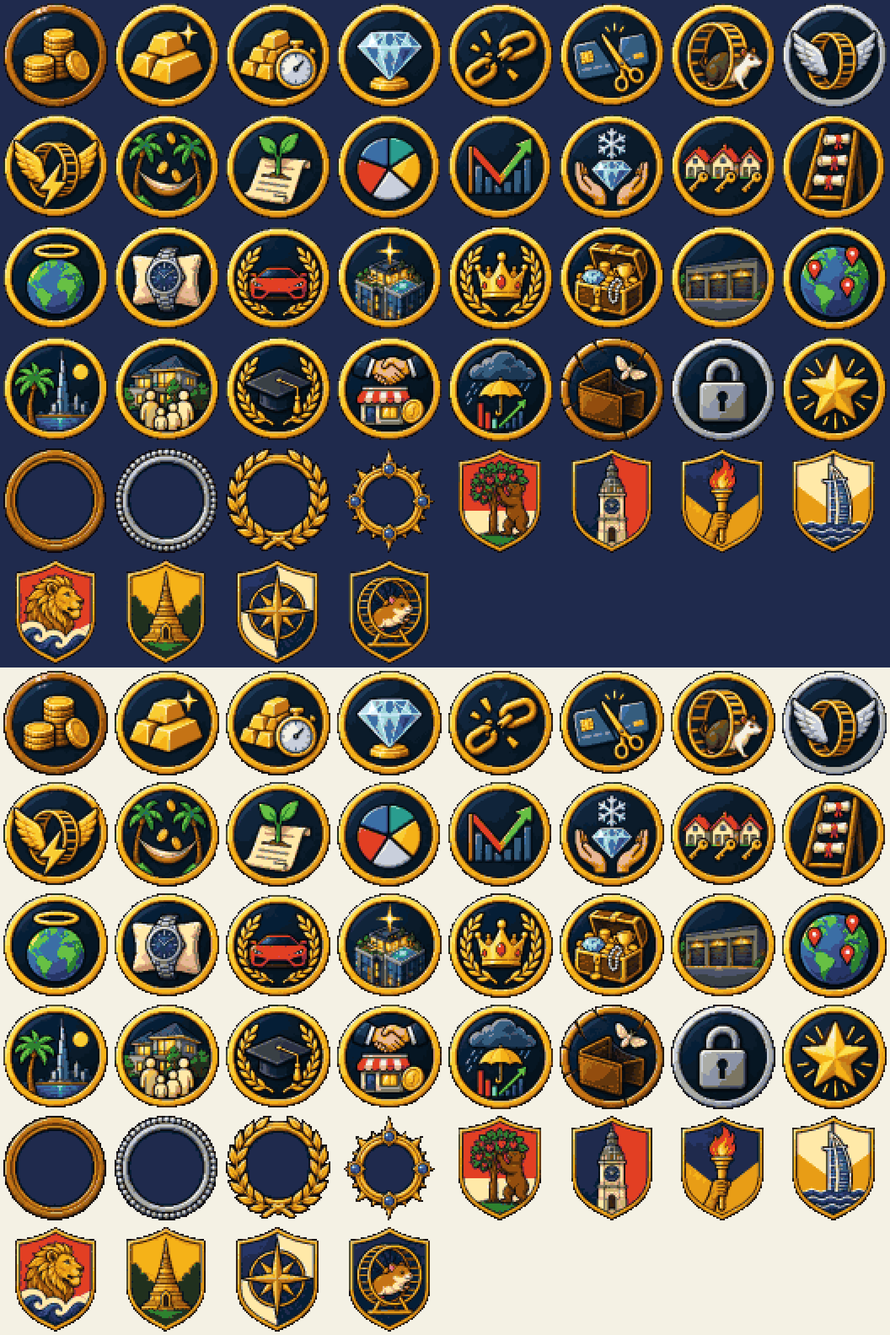
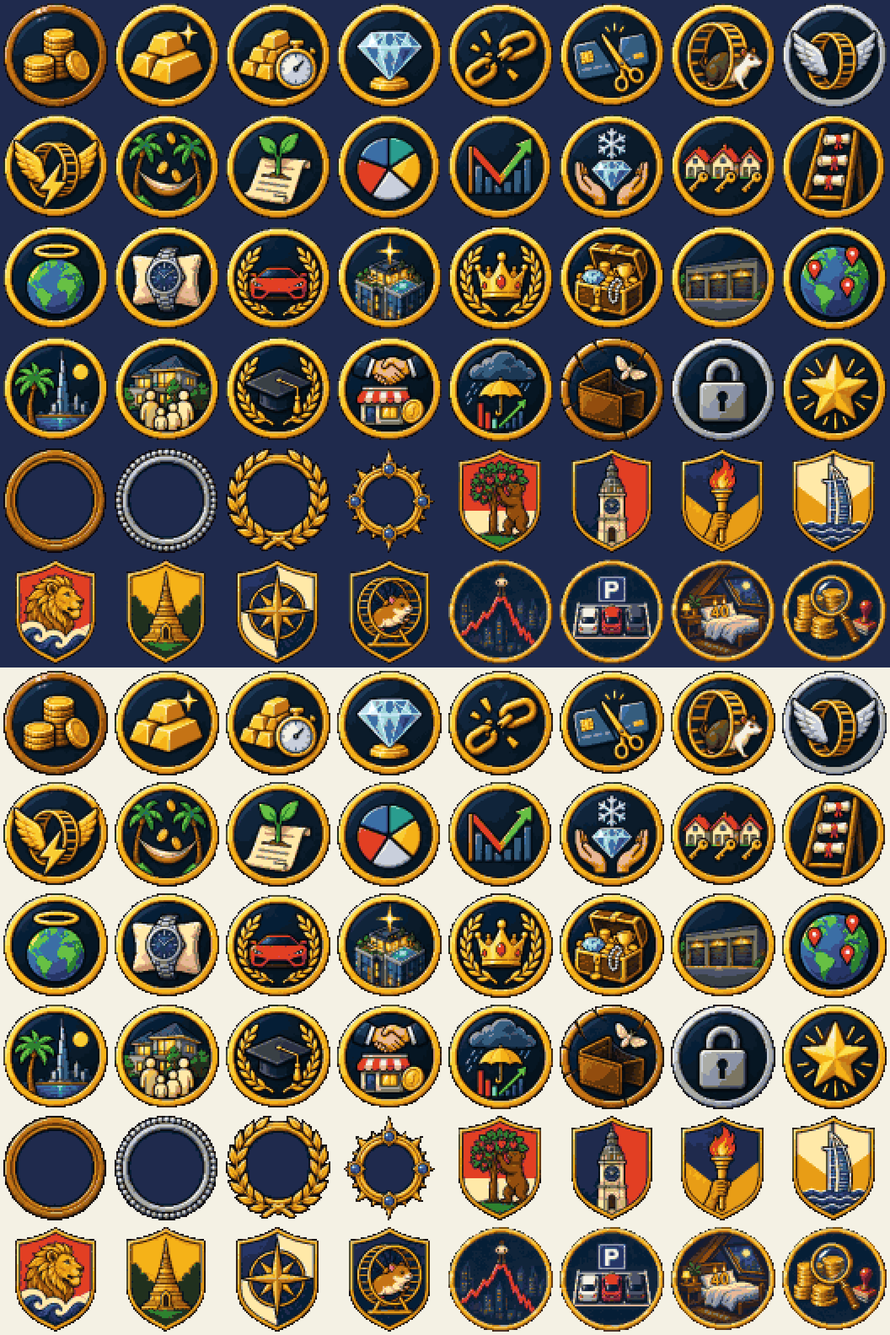
feat(art): the four new badges and the three ways to learn are drawn
badges-04 and items-05 are cut and wired, and the stand-ins they
replace are gone.

Changed region(s): [[0.4949, 0.9032, 1.0, 1.0], [0.4949, 0.4049, 1.0, 0.4983]]

diff --git a/packages/content/src/art.ts b/packages/content/src/art.ts
@@ -135,13 +135,7 @@ export const cardArt: Record<string, string> = {
 };
 
 /** Items are drawn by their own sprite. Cars live on their own sheet. */
-/** Things whose own picture is not drawn yet, and the nearest one drawn, shown until it is. Emptied as `items-05` is cut. */
-export const ITEM_STAND_INS: Record<string, string> = {
-  edu_certificate: 'edu_mba',
-  edu_coach: 'member_club',
-  edu_language_school: 'travel_interrail',
-};
-export const itemArt = (itemId: string): string => (itemId.startsWith('car_') ? `car.${itemId.slice(4)}` : `item.${ITEM_STAND_INS[itemId] ?? itemId}`);
+export const itemArt = (itemId: string): string => (itemId.startsWith('car_') ? `car.${itemId.slice(4)}` : `item.${itemId}`);
 /** The kinds of home each city draws its own way, once its sheet is cut. */
 export const CITY_HOME_KINDS = ['studio', 'flat', 'loft', 'townhouse', 'house', 'duplex', 'chalet', 'penthouse', 'estate', 'villa', 'mansion'] as const;
 /** The cities whose homes are drawn: until a city's sheet is cut, its homes are the plain ones. */
@@ -221,15 +215,8 @@ export const topicArt: Record<Headline['topic'], string> = {
   property: 'icon.property',
 };
 
-/** Badges whose own picture is not drawn yet, and the nearest one drawn, shown until it is. Emptied as `badges-04` is cut. */
-export const BADGE_STAND_INS: Record<string, string> = {
-  bought_the_top: 'crypto_winter',
-  more_cars_than_spaces: 'supercar',
-  room_at_40: 'three_rentals',
-  audited: 'bankrupt',
-};
 /** A badge, or `locked` for one not earned yet. */
-export const badgeArt = (badgeId: string): string => `badge.${BADGE_STAND_INS[badgeId] ?? badgeId}`;
+export const badgeArt = (badgeId: string): string => `badge.${badgeId}`;
 /** The rim a badge is set in, by its rarity: bronze, silver, a laurel of gold, and the gem. */
 export const RIM_ART = { common: 'rim.bronze', uncommon: 'rim.silver', rare: 'rim.gold', legendary: 'rim.gem' } as const;
 

diff --git a/tools/art/src/sheets.ts b/tools/art/src/sheets.ts
@@ -69,6 +69,11 @@ export const SHEETS: SheetSpec[] = [
     ],
   },
   {
+    // Three ways to learn that are bought: a certificate, a coach, a school abroad.
+    file: 'items/items-05', group: 'items', kind: 'objects', cols: 3, rows: 1, width: 64, height: 64,
+    ids: ['item.edu_certificate', 'item.edu_coach', 'item.edu_language_school'],
+  },
+  {
     file: 'cars/cars-01', group: 'cars', kind: 'objects', cols: 2, rows: 4, width: 96, height: 48,
     ids: [
       'car.seat_ibiza', 'car.toyota_corolla', 'car.vw_golf_gti', 'car.tesla_model_3',
@@ -234,6 +239,11 @@ export const SHEETS: SheetSpec[] = [
       'crest.madrid', 'crest.london', 'crest.new_york', 'crest.dubai',
       'crest.singapore', 'crest.bangkok', 'crest.compass', 'crest.wheel',
     ],
+  },
+  {
+    // Four badges added since: the top bought, more cars than spaces, a room at forty, an inspection.
+    file: 'badges/badges-04', group: 'badges', kind: 'objects', cols: 2, rows: 2, width: 64, height: 64,
+    ids: ['badge.bought_the_top', 'badge.more_cars_than_spaces', 'badge.room_at_40', 'badge.audited'],
   },
   ...[
     ['office_desk', 'handshake', 'packed_box', 'airport', 'library', 'graduation'],

diff --git a/art/prompts/v3-prompt-pack.md b/art/prompts/v3-prompt-pack.md
@@ -220,7 +220,7 @@ Square image. Object sheet: 2 columns by 2 rows, 4 badges. Every badge is a roun
 | 59 | `icons/anim-02.png` | The wheel with the rat in a tracksuit (row 1) and a tuxedo (row 2): `anim.wheel_tracksuit.0–3`, `anim.wheel_tuxedo.0–3` | 48×48 |
 | 60 | `badges/badges-04.png` | `badge.bought_the_top`, `badge.more_cars_than_spaces`, `badge.room_at_40`, `badge.audited` | 64×64 |
 
-Until these are cut, the wheel keeps the rat in its suit and the four badges show a stand-in (`BADGE_STAND_INS` in `packages/content/src/art.ts`). When they are cut: add the sheets to `tools/art/src/sheets.ts`, the outfits to `RAT_OUTFITS_DRAWN`, and empty `BADGE_STAND_INS`.
+All three sheets are cut and wired.
 
 ## Three ways to learn, bought
 
@@ -239,4 +239,4 @@ Square image. Object sheet: 3 columns by 1 row, 3 objects, each standing alone a
 | --- | --- | --- | --- |
 | 61 | `items/items-05.png` | `item.edu_certificate`, `item.edu_coach`, `item.edu_language_school` | 64×64 |
 
-Until it is cut, the three show a stand-in (`ITEM_STAND_INS` in `packages/content/src/art.ts`).
+Cut and wired.

diff --git a/art/clean/report.md b/art/clean/report.md
@@ -1,14 +1,14 @@
 # Art report
 
-Sprites: 604. Every group uses the 31 interface colours plus its own.
+Sprites: 611. Every group uses the 31 interface colours plus its own.
 
 | Group | Sprites | Size | Colours |
 |---|---|---|---|
-| items | 54 | 64×64 | 64 |
+| items | 57 | 64×64 | 64 |
 | cars | 8 | 96×48 | 64 |
 | homes | 90 | 128×128 | 64 |
 | icons | 138 | 32×32 | 64 |
-| badges | 44 | 64×64 | 64 |
+| badges | 48 | 64×64 | 64 |
 | portraits | 80 | 64×64 | 64 |
 | cards | 162 | 288×120 | 64 |
 | skylines | 24 | 312×66 | 64 |
